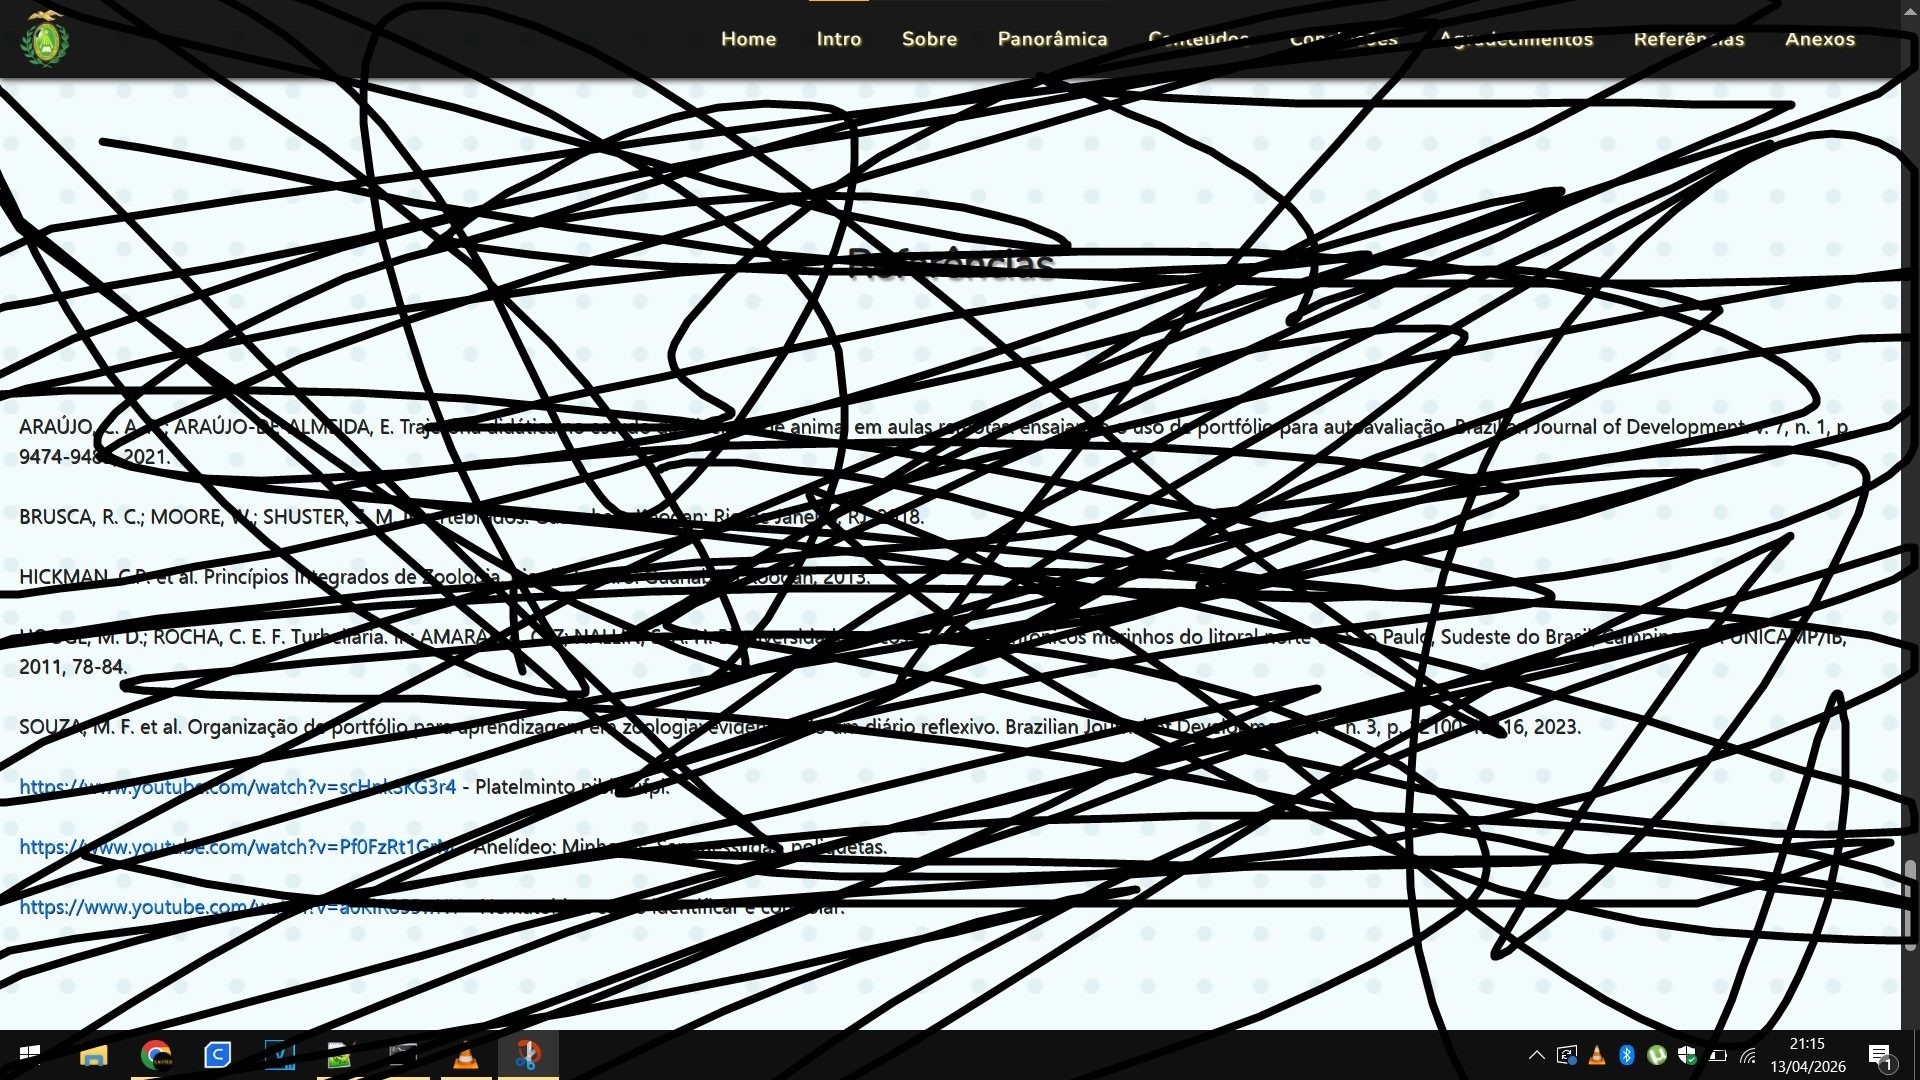
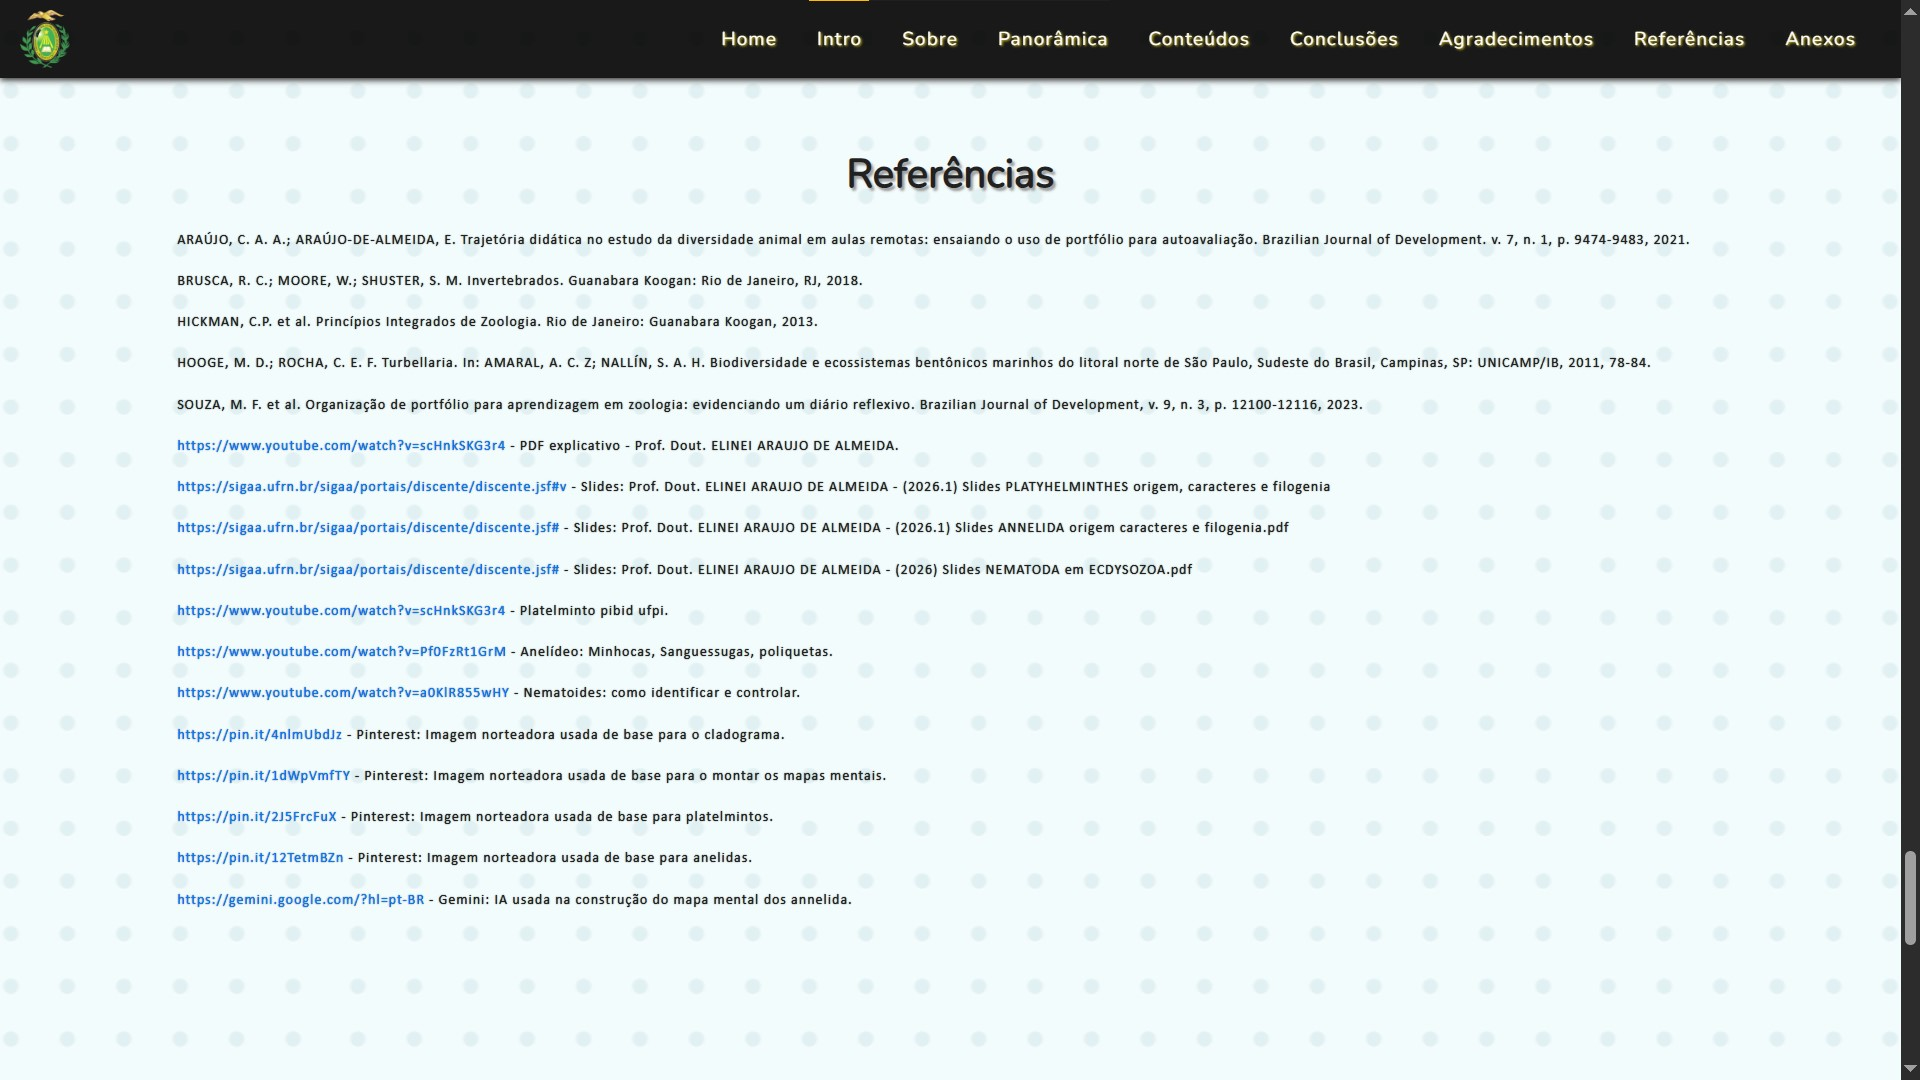
q

diff --git a/index.html b/index.html
@@ -83,7 +83,7 @@
 			</div>
 		</div>
 		<!--- Seção Sobre --->
-		<div id="Sobre" class="container-fluid">					<!--- QUAAASE PRONTO --->
+		<div id="Sobre" class="container-fluid">					<!--- OK --->
 			<div class="row">
 			
 				<div class="col-sm-12">
@@ -149,7 +149,7 @@
 			</div>
 		</div>
 		<!--- Seção Panorâmica --->
-		<div id="Panoramica" class="container-fluid">				<!--- para fazer --->
+		<div id="Panoramica" class="container-fluid">				<!--- OK --->
 			<div class="row">
 
 				<div class="col-sm-12"><br><br>
@@ -176,7 +176,7 @@
 			</div>
 		</div>
 		<!--- Seção Conteúdo --->
-		<div id="Conteudo" class="container-fluid">					<!--- fazeeeeerr --->
+		<div id="Conteudo" class="container-fluid">					<!--- QUAAASE PRONTO --->
 			<div class="row">
 				<div class="col-sm-12">
 					<h1 class="title font-weight-bold">Conteúdos</h1>
@@ -228,54 +228,25 @@
 				</div>
 				
 				<div class="col-sm-12">	<!--- Instruções_Imagens_Modal --->
-					<br><br><br><p class="text-center">Toque ou passe o mouse nas fotos abaixo para vez os textos</p>
+					<br><br>
+					<p class="text-center">Toque ou passe o mouse nas fotos abaixo para vez os textos</p>
 				</div>
 				<div class="col-sm-4">
 					<img class="img rounded" src="midia/p1.jpg">
 					<div class="text_port card-img-overlay">
 						<p class="text card-text">Text Text Text Text Text Text Text Text Text Text Text Text Text Text Text Text Text Text Text Text </p><br>
-						<a class="btn btn-outline-primary btn-block" data-toggle="modal" data-target="#myModal1">Vizualizar</a>
-					</div>
-					<!-- The Modal -->
-					<div class="modal fade" id="myModal1">
-						<div class="modal-dialog modal-dialog-scrollable modal-lg">
-							<div class="modal-content">
-								<button id="bp" type="button" class="btn text-light bg-danger" data-dismiss="modal">&times;</button>
-								<img class="imgf" src="midia/p1.jpg"><img>
-							</div>
-						</div>
 					</div>
 				</div>
 				<div class="col-sm-4">
 					<img class="img rounded" src="midia/p2.jpg">
 					<div class="text_port card-img-overlay">
 						<p class="text card-text">Text Text Text Text Text Text Text Text Text Text Text Text Text Text Text Text Text Text Text Text </p><br>
-						<a class="btn btn-outline-primary btn-block" data-toggle="modal" data-target="#myModal2">Vizualizar</a>
-					</div>
-					<!-- The Modal -->
-					<div class="modal fade" id="myModal2">
-						<div class="modal-dialog modal-dialog-scrollable modal-lg">
-							<div class="modal-content">
-								<button id="bp" type="button" class="btn text-light bg-danger" data-dismiss="modal">&times;</button>
-								<img class="imgf" src="midia/p2.jpg"><img>
-							</div>
-						</div>
 					</div>
 				</div>
 				<div class="col-sm-4">
 					<img class="img rounded" src="midia/p3.jpg">
 					<div class="text_port card-img-overlay">
 						<p class="text card-text">Text Text Text Text Text Text Text Text Text Text Text Text Text Text Text Text Text Text Text Text </p><br>
-						<a class="btn btn-outline-primary btn-block" data-toggle="modal" data-target="#myModal3">Vizualizar</a>
-					</div>
-					<!-- The Modal -->
-					<div class="modal fade" id="myModal3">
-						<div class="modal-dialog modal-dialog-scrollable modal-lg">
-							<div class="modal-content">
-								<button id="bp" type="button" class="btn text-light bg-danger" data-dismiss="modal">&times;</button>
-								<img class="imgf" src="midia/p3.jpg"><img>
-							</div>
-						</div>
 					</div>
 				</div>
 				
@@ -283,48 +254,18 @@
 					<img class="img rounded" src="midia/p4.jpg">
 					<div class="text_port card-img-overlay">
 						<p class="text card-text">Text Text Text Text Text Text Text Text Text Text Text Text Text Text Text Text Text Text Text Text </p><br>
-						<a class="btn btn-outline-primary btn-block" data-toggle="modal" data-target="#myModal4">Vizualizar</a>
-					</div>
-					<!-- The Modal -->
-					<div class="modal fade" id="myModal4">
-						<div class="modal-dialog modal-dialog-scrollable modal-lg">
-							<div class="modal-content">
-								<button id="bp" type="button" class="btn text-light bg-danger" data-dismiss="modal">&times;</button>
-								<img class="imgf" src="midia/p4.jpg"><img>
-							</div>
-						</div>
 					</div>
 				</div>
 				<div class="col-sm-4">
 					<img class="img rounded" src="midia/p5.jpg">
 					<div class="text_port card-img-overlay">
 						<p class="text card-text">Text Text Text Text Text Text Text Text Text Text Text Text Text Text Text Text Text Text Text Text </p><br>
-						<a class="btn btn-outline-primary btn-block" data-toggle="modal" data-target="#myModal5">Vizualizar</a>
-					</div>
-					<!-- The Modal -->
-					<div class="modal fade" id="myModal5">
-						<div class="modal-dialog modal-dialog-scrollable modal-lg">
-							<div class="modal-content">
-								<button id="bp" type="button" class="btn text-light bg-danger" data-dismiss="modal">&times;</button>
-								<img class="imgf" src="midia/p5.jpg"><img>
-							</div>
-						</div>
 					</div>
 				</div>
 				<div class="col-sm-4">
 					<img class="img rounded" src="midia/p6.jpg">
 					<div class="text_port card-img-overlay">
 						<p class="text card-text">Text Text Text Text Text Text Text Text Text Text Text Text Text Text Text Text Text Text Text Text </p><br>
-						<a class="btn btn-outline-primary btn-block" data-toggle="modal" data-target="#myModal6">Vizualizar</a>
-					</div>
-					<!-- The Modal -->
-					<div class="modal fade" id="myModal6">
-						<div class="modal-dialog modal-dialog-scrollable modal-lg">
-							<div class="modal-content">
-								<button id="bp" type="button" class="btn text-light bg-danger" data-dismiss="modal">&times;</button>
-								<img class="imgf" src="midia/p6.jpg"><img>
-							</div>
-						</div>
 					</div>
 				</div>
 	
@@ -332,64 +273,24 @@
 					<img class="img rounded" src="midia/p7.jpg">
 					<div class="text_port card-img-overlay">
 						<p class="text card-text">Text Text Text Text Text Text Text Text Text Text Text Text Text Text Text Text Text Text Text Text </p><br>
-						<a class="btn btn-outline-primary btn-block" data-toggle="modal" data-target="#myModal7">Vizualizar</a>
-					</div>
-					<!-- The Modal -->
-					<div class="modal fade" id="myModal7">
-						<div class="modal-dialog modal-dialog-scrollable modal-lg">
-							<div class="modal-content">
-								<button id="bp" type="button" class="btn text-light bg-danger" data-dismiss="modal">&times;</button>
-								<img class="imgf" src="midia/p7jpg"><img>
-							</div>
-						</div>
 					</div>
 				</div>
 				<div class="col-sm-3">
 					<img class="img rounded" src="midia/p8.jpg">
 					<div class="text_port card-img-overlay">
 						<p class="text card-text">Text Text Text Text Text Text Text Text Text Text Text Text Text Text Text Text Text Text Text Text </p><br>
-						<a class="btn btn-outline-primary btn-block" data-toggle="modal" data-target="#myModal8">Vizualizar</a>
-					</div>
-					<!-- The Modal -->
-					<div class="modal fade" id="myModal8">
-						<div class="modal-dialog modal-dialog-scrollable modal-lg">
-							<div class="modal-content">
-								<button id="bp" type="button" class="btn text-light bg-danger" data-dismiss="modal">&times;</button>
-								<img class="imgf" src="midia/p8.jpg"><img>
-							</div>
-						</div>
 					</div>
 				</div>
 				<div class="col-sm-3">
 					<img class="img rounded" src="midia/p9.jpg">
 					<div class="text_port card-img-overlay">
 						<p class="text card-text">Text Text Text Text Text Text Text Text Text Text Text Text Text Text Text Text Text Text Text Text </p><br>
-						<a class="btn btn-outline-primary btn-block" data-toggle="modal" data-target="#myModal9">Vizualizar</a>
-					</div>
-					<!-- The Modal -->
-					<div class="modal fade" id="myModal9">
-						<div class="modal-dialog modal-dialog-scrollable modal-lg">
-							<div class="modal-content">
-								<button id="bp" type="button" class="btn text-light bg-danger" data-dismiss="modal">&times;</button>
-								<img class="imgf" src="midia/p9.jpg"><img>
-							</div>
-						</div>
 					</div>
 				</div>
 				<div class="col-sm-3">
 					<img class="img rounded" src="midia/p10.jpg">
 					<div class="text_port card-img-overlay">
 						<p class="text card-text">Text Text Text Text Text Text Text Text Text Text Text Text Text Text Text Text Text Text Text Text </p><br>
-						<a class="btn btn-outline-primary btn-block" data-toggle="modal" data-target="#myModal10">Vizualizar</a>
-					</div>
-					<!-- The Modal -->
-					<div class="modal fade" id="myModal10">
-						<div class="modal-dialog modal-dialog-scrollable modal-lg">
-							<div class="modal-content">
-								<button id="bp" type="button" class="btn text-light bg-danger" data-dismiss="modal">&times;</button>
-								<img class="imgf" src="midia/p10.jpg"><img>
-							</div>
-						</div>
 					</div>
 				</div>
 
@@ -405,19 +306,19 @@
 					<h2 class="title">
 						Conclusões
 					</h2>
-					<p class="text text-uppercase"><i class="fa fa-star"></i>
+					<p class="text"><i class="fa fa-star"></i>
 						Ao longo do estudo dos filos PLATYHELMINTHES e ANNELIDA, principalmente, foi possível compreender melhor a diversidade e a evolução dos invertebrados, especialmente no que diz respeito as suas organização corporal e aos seus diferentes modos de vida.
 					</p>
-					<p class="text text-uppercase"><i class="fa fa-star"></i>
+					<p class="text"><i class="fa fa-star"></i>
 						A comparação entre esses grupos mostrou avanços, evoluções e adaptações importantes, como o surgimento de cavidade corporal, segmentação e sistemas mais complexos.
 					</p>
-					<p class="text text-uppercase"><i class="fa fa-star"></i>
+					<p class="text"><i class="fa fa-star"></i>
 						Durante o processo de aprendizagem, alguns conceitos mostraram-se desafiadores e, tornaram-se mais claros com a análise comparativa, contribuindo para uma melhor e mais sólida compreensão do conteúdo.
 					</p>
-					<p class="text text-uppercase"><i class="fa fa-star"></i>
+					<p class="text"><i class="fa fa-star"></i>
 						O estudo nos permitiu perceber a importância desses organismos, por menores ou mais primitivos que se pareçam, no equilíbrio e manutenção dos ecossistemas.
 					</p>
-					<p class="text text-uppercase"><i class="fa fa-star"></i>
+					<p class="text"><i class="fa fa-star"></i>
 						Assim, este portfólio traz , não só uma síntese dos conteúdos abordados, mas também o desenvolvimento do pensamento crítico e da capacidade de relacionar diferentes aspectos da Zoologia de Invertebrados ao longo da disciplina.
 					</p>
 				</div>
@@ -453,12 +354,13 @@
 			</div>
 		</div>
 		<!--- Seção Referências --->
-		<div  id="Referencias" class="container-fluid">				<!--- para fazer --->
+		<div  id="Referencias" class="container-fluid">				<!--- OK --->
 			<div class="row">
 
-				<div class="col-sm-12">
+				<div class="col-sm-1"></div>
+				<div class="col-sm-10">
 					<h2 class="title font-weight-bold">Referências</h2>
-					<p>
+					<p class="refer">
 						ARAÚJO, C. A. A.; ARAÚJO-DE-ALMEIDA, E. Trajetória didática no estudo da diversidade animal em aulas remotas: ensaiando o uso de portfólio para autoavaliação. Brazilian Journal of Development. v. 7, n. 1, p. 9474-9483, 2021.<br><br>
 
 						BRUSCA, R. C.; MOORE, W.; SHUSTER, S. M. Invertebrados. Guanabara Koogan: Rio de Janeiro, RJ, 2018.<br><br>
@@ -468,6 +370,22 @@
 						HOOGE, M. D.; ROCHA, C. E. F. Turbellaria. In: AMARAL, A. C. Z; NALLÍN, S. A. H. Biodiversidade e ecossistemas bentônicos marinhos do litoral norte de São Paulo, Sudeste do Brasil, Campinas, SP: UNICAMP/IB, 2011, 78-84.<br><br>
 
 						SOUZA, M. F. et al. Organização de portfólio para aprendizagem em zoologia: evidenciando um diário reflexivo. Brazilian Journal of Development, v. 9, n. 3, p. 12100-12116, 2023.<br><br>
+						
+						<a href="https://www.youtube.com/watch?v=scHnkSKG3r4">
+							https://www.youtube.com/watch?v=scHnkSKG3r4
+						</a> - PDF explicativo - Prof. Dout. ELINEI ARAUJO DE ALMEIDA.<br><br>
+						
+						<a href="https://sigaa.ufrn.br/sigaa/portais/discente/discente.jsf#">
+							https://sigaa.ufrn.br/sigaa/portais/discente/discente.jsf#v
+						</a> - Slides: Prof. Dout. ELINEI ARAUJO DE ALMEIDA - (2026.1) Slides PLATYHELMINTHES origem, caracteres e filogenia<br><br>
+						
+						<a href="https://sigaa.ufrn.br/sigaa/portais/discente/discente.jsf#">
+							https://sigaa.ufrn.br/sigaa/portais/discente/discente.jsf#
+						</a> - Slides: Prof. Dout. ELINEI ARAUJO DE ALMEIDA - (2026.1) Slides ANNELIDA origem caracteres e filogenia.pdf <br><br>
+						
+						<a href="https://sigaa.ufrn.br/sigaa/portais/discente/discente.jsf#">
+							https://sigaa.ufrn.br/sigaa/portais/discente/discente.jsf#
+						</a> - Slides: Prof. Dout. ELINEI ARAUJO DE ALMEIDA - (2026) Slides NEMATODA em ECDYSOZOA.pdf <br><br>
 
 						<a href="https://www.youtube.com/watch?v=scHnkSKG3r4">
 							https://www.youtube.com/watch?v=scHnkSKG3r4
@@ -479,18 +397,40 @@
 						
 						<a href="https://www.youtube.com/watch?v=a0KlR855wHY">
 							https://www.youtube.com/watch?v=a0KlR855wHY
-						</a> - Nematoides: como identificar e controlar.
+						</a> - Nematoides: como identificar e controlar.<br><br>
+						
+						<a href="https://pin.it/4nlmUbdJz">
+							https://pin.it/4nlmUbdJz
+						</a> - Pinterest: Imagem norteadora usada de base para o cladograma.<br><br>
+						
+						<a href="https://pin.it/1dWpVmfTY">
+							https://pin.it/1dWpVmfTY
+						</a> - Pinterest: Imagem norteadora usada de base para o montar os mapas mentais.<br><br>
+						
+						<a href="https://pin.it/2J5FrcFuX">
+							https://pin.it/2J5FrcFuX
+						</a> - Pinterest: Imagem norteadora usada de base para platelmintos.<br><br>
+						
+						<a href="https://pin.it/12TetmBZn">
+							https://pin.it/12TetmBZn
+						</a> - Pinterest: Imagem norteadora usada de base para anelidas.<br><br>
+						
+						<a href="https://gemini.google.com/?hl=pt-BR">
+							https://gemini.google.com/?hl=pt-BR
+						</a> - Gemini: IA usada na construção do mapa mental dos annelida.<br><br>
 					</p>
 				</div>
-				
+				<div class="col-sm-1"></div>
 			</div>			
 		</div>
 		<!--- Seção Anexos --->
-		<div id="Anexos" class="container-fluid">					<!--- para fazer --->
+		<div id="Anexos" class="container-fluid">					<!--- OK --->
 			<div class="row">
 			
 				<div class="col-sm-12">
 					<h2 class="title">Anexos</h2>
+					<br><br>
+					<p class="text-center">Estas imagens foram usadas como base, referência ou apoio para criação das imagens acima, seus links de acesso encontram-se nas referências</p>
 				</div>
 				
 				<div class= "slick">
@@ -500,7 +440,6 @@
 					<img class="img_carossel" src="midia/a3.jpg"></img>
 					<img class="img_carossel" src="midia/a4.jpg"></img>
 					<img class="img_carossel" src="midia/a5.jpg"></img>
-					<img class="img_carossel" src="midia/a6.jpg"></img>
 				</div>
 				
 			</div>

diff --git a/index.css b/index.css
@@ -17,19 +17,19 @@ html, body {
 	text-shadow: 2px 2px 2px #9a9a9a;
 }
 .text{
-	font-family: nunito;
+	font-family: times;
 	font-size: 14px;
 	letter-spacing: 0.9px;
 }
 #Intro, #Panoramica, #Projetos, #Conclusoes, #Referencias{
 	background: url(midia/bgbranco.png) center fixed;
 	color: #212121;
-	text-shadow: 0.5px 0.5px 0px #212121;
+	text-shadow: 0px 0px 1px #212121;
 }
 #Sobre, #Conteudo, #Agradecimentos, #Anexos{
 	background: url(midia/bgazul.png) center fixed;
 	color: #fcfcfc;
-	text-shadow: 0.5px 0.5px 0px #fcfcfc;
+	text-shadow: 0px 0px 1px #fcfcfc;
 }
 /* Barra de Navegação */
 #barra_nav{
@@ -107,10 +107,6 @@ html, body {
 	height: 200px;
 	margin: 0px auto 10px auto;
 }
-#bp{
-	position:absolute;
-	right:0;
-}
 .img{
 	max-width: 100%;
 	min-width: 100%;
@@ -119,22 +115,15 @@ html, body {
 	margin: 10px 0px 10px 0px;
 	box-shadow: 0.5px 1px 5px grey;
 }
-.imgf{
-	max-width: 100%;
-	min-width: 100%;
-	min-height: 100%;
-	max-height: 100%;
-	margin: 0px 0px 0px 0px;
-}
 .text_port{
 	color: #fcfcfc;
 	margin: 10px 15px 10px 15px;
 	opacity: 0;
 }
 .text_port:hover{
-	background: rgba(0, 0, 0, 0.8);
+	background: rgba(0, 0, 0, 0.7);
 	opacity: 1;
-	transition-duration: 0.6s;
+	transition-duration: 1.2s;
 }
 /* Seção Sobre */
 .sob{
@@ -174,6 +163,11 @@ html, body {
 	transition-duration: 0.4s;
 }
 /*Seção Anexos*/
+.refer{
+	font-family: calibri;
+	font-size: 11px;
+	letter-spacing: 0.9px;
+}
 .slick{
 	width: 100%;
 	max-width: 100%;
